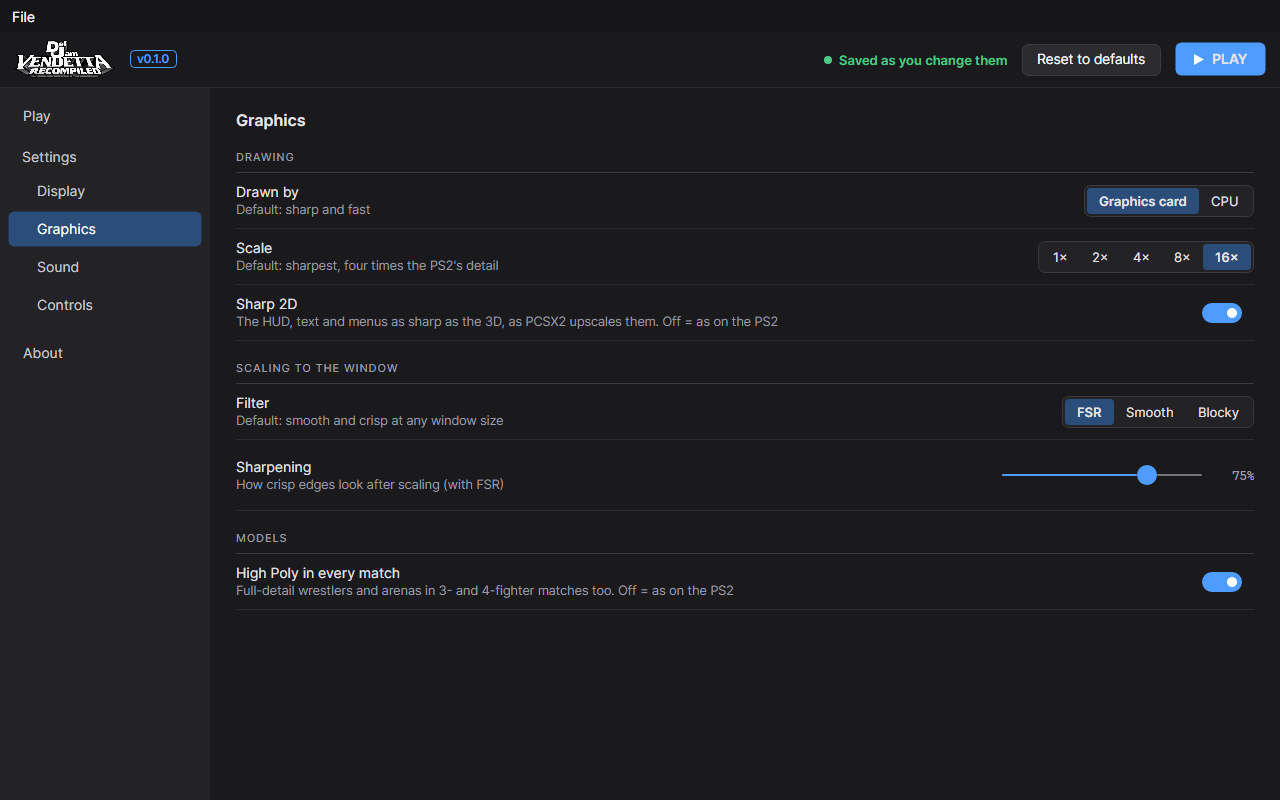
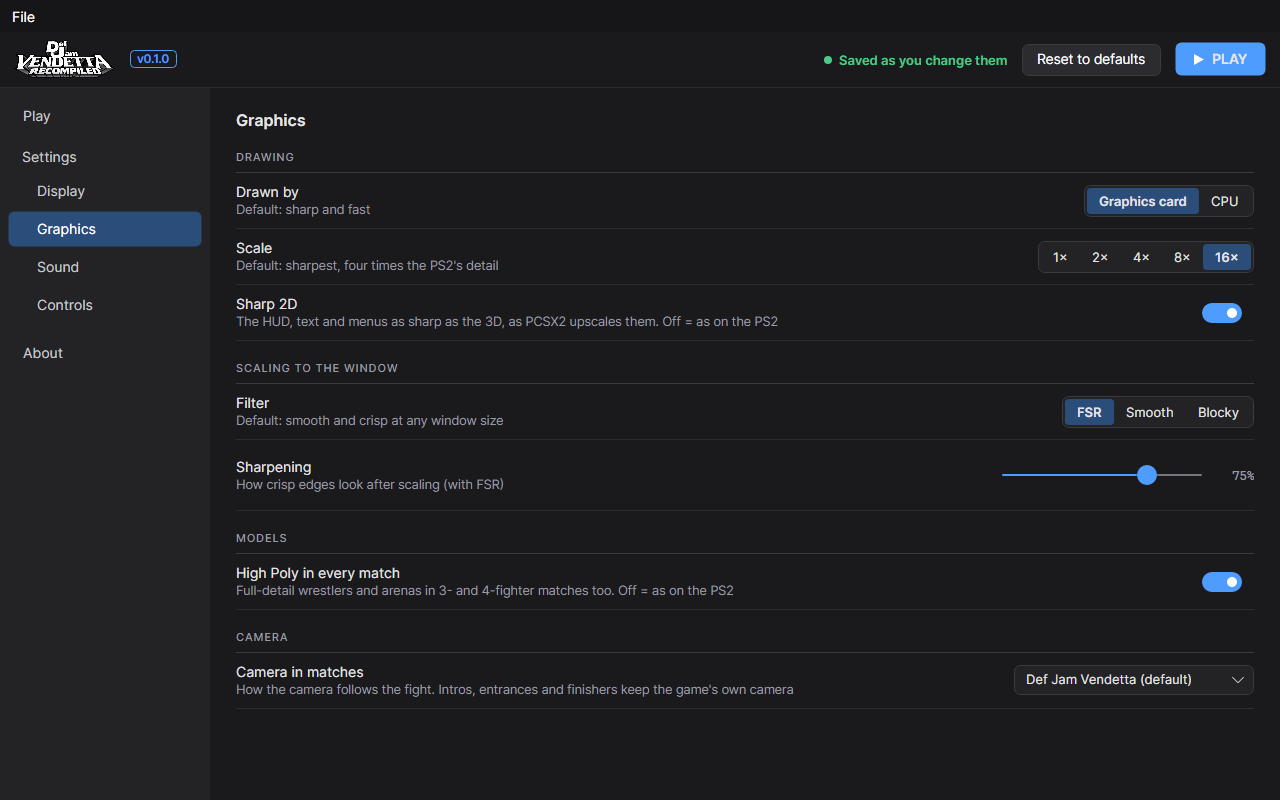
README and release notes: camera styles and Vulkan; 0.1.0 notes final
- README: Camera and Graphics rows in PS2 vs PC, Vulkan in the intro, the
  camera styles under Good to know (Wrestle Kingdom 2's turned controls),
  the camera on the Graphics page (picture redrawn), updating described as
  it works (the new version downloaded, only what changed swapped in),
  VENDETTA_CAMERA and VENDETTA_PRESENT in the switches.
- CHANGELOG: camera styles and Vulkan under New, the draft mark removed.

Changed region(s): [[0.1875, 0.7812, 0.625, 0.875], [0.7812, 0.8438, 0.9375, 0.875]]

diff --git a/README.md b/README.md
@@ -13,7 +13,9 @@ Made by [@jcsix on X](https://x.com/jcsix) · [jcsix694 on GitHub](https://githu
 </div>
 
 The original PlayStation 2 code is translated to C++ with [PS2Recomp](https://github.com/ran-j/PS2Recomp) and compiled on your
-PC, so your CPU runs the game directly. No emulator. **No game files come with it:** you need your own copy of Def Jam
+PC, so your CPU runs the game directly. No emulator. The PS2's graphics chip is redrawn on your graphics card with
+Vulkan through [paraLLEl-GS](https://github.com/Arntzen-Software/parallel-gs), and the picture is shown with Vulkan
+too. **No game files come with it:** you need your own copy of Def Jam
 Vendetta (PlayStation 2, USA, **SLUS-20639**) as an `.iso` or `.chd`, and everything made from it stays on your PC.
 
 <img src="images/game-match.jpg" alt="Briggs against Spider in The Face Club, widescreen at 16x" width="100%">
@@ -28,6 +30,8 @@ Vendetta (PlayStation 2, USA, **SLUS-20639**) as an `.iso` or `.chd`, and everyt
 | **Models in 3- and 4-fighter matches** | Low Poly | High Poly (optional) |
 | **Players** | 4 with a multitap | 4 controllers, plus the keyboard |
 | **Vibration** | DualShock 2 | Xbox-style controllers |
+| **Camera** | Def Jam Vendetta's | Def Jam Vendetta's, WWF No Mercy style or Wrestle Kingdom 2 style |
+| **Graphics** | the PS2's graphics chip | Vulkan on your graphics card |
 | **Display** | TV | window, borderless or fullscreen |
 | **Saves** | memory card | memory card files on your PC |
 
@@ -84,8 +88,9 @@ about 8 GB of free space · the internet once · your own Def Jam Vendetta disc 
 > Windows may say *"Windows protected your PC"* because the program isn't code-signed yet. Click **More info**, then
 > **Run anyway**.
 
-**Updating:** Def Jam Vendetta Recompiled Settings checks for a new version when it opens and offers it on its Play page. An update is a
-small download, then the game is rebuilt in a few minutes. Your settings and saves are kept.
+**Updating:** Def Jam Vendetta Recompiled Settings checks for a new version when it opens and offers it on its Play page. It
+downloads the new version, swaps in only what changed and rebuilds the game in a few minutes. Your settings and saves are
+kept.
 
 ## Def Jam Vendetta Recompiled Settings
 
@@ -99,8 +104,8 @@ small download, then the game is rebuilt in a few minutes. Your settings and sav
 
 - **Display:** window, borderless or fullscreen, which screen, fullscreen resolution and refresh rate, VSync, and
   widescreen, 4:3 or stretched.
-- **Graphics:** graphics card or CPU, scale 1× to 16×, Sharp 2D, FSR, smooth or blocky scaling with sharpening, and
-  High Poly in every match.
+- **Graphics:** graphics card or CPU, scale 1× to 16×, Sharp 2D, FSR, smooth or blocky scaling with sharpening,
+  High Poly in every match, and the camera style.
 - **Sound:** volume and the arena reverb.
 - **Controls:** up to 4 players, each player's controller and vibration, which player the keyboard plays as, and what
   every button does.
@@ -130,6 +135,9 @@ Controls page.
 - **Running slowly?** 16× (the default) needs a fairly strong graphics card: try 8× on the Graphics page.
 - **The very first start** is slow for about a minute while the graphics card prepares its shaders.
 - **Vibration** can also be turned off in the game's own pause menu.
+- **Camera styles:** Def Jam Vendetta's own camera, WWF No Mercy style or Wrestle Kingdom 2 style
+  (the ring seen from a corner, like a diamond). With Wrestle Kingdom 2's view the D-pad and left stick are turned to
+  match it, so up still moves up the screen.
 - **Your settings** are in `files\settings.toml`. Def Jam Vendetta Recompiled Settings writes it, and you can edit it by hand.
 - **Mods** are not supported yet, but are currently being worked on.
 
@@ -173,6 +181,8 @@ The game reads `settings.toml` from its folder. A switch set before `run.bat` wi
 | `VENDETTA_UPSCALE_SPRITES=1/0` · `VENDETTA_HIGHPOLY=1/0` | Sharp 2D (`sharp_2d`) · High Poly in every match (`high_poly`) |
 | `VENDETTA_KEYBOARD=1..4/0` | the keyboard's player (`keyboard`, 0 = nobody) |
 | `VENDETTA_SPU_INTERP=linear` | the sound chip's voices interpolated linearly instead of the PS2's Gaussian |
+| `VENDETTA_CAMERA=vendetta/nomercy/wk2` | the camera style (`camera`) |
+| `VENDETTA_PRESENT=opengl` | the older OpenGL window instead of the Vulkan one |
 
 F1 shows the debug panel. In the repository: `config\` (the recompiler's inputs: the function map from Ghidra, Sony
 library routines bound to the runtime's own, missed function starts), `overrides\` (game-specific runtime code),

diff --git a/CHANGELOG.md b/CHANGELOG.md
@@ -5,7 +5,7 @@ The newest version is at the top.
 
 ---
 
-## 0.1.0: the first release (DRAFT, not released yet)
+## 0.1.0: the first release
 
 Def Jam Vendetta (PlayStation 2, USA, SLUS-20639) as a native Windows program, built on your PC from your own disc.
 No game files come with this download.
@@ -20,6 +20,9 @@ No game files come with this download.
 - **A sharp picture:** drawn on your graphics card at up to 16 times the PS2's detail, with the HUD, text and menus
   as sharp as the 3D (Sharp 2D).
 - **High Poly in every match:** full-detail wrestlers and arenas in 3- and 4-fighter matches too.
+- **Camera styles:** Def Jam Vendetta's own camera, WWF No Mercy style or Wrestle Kingdom 2 style (the ring seen from a
+  corner, with the controls turned to match). Choose it under Graphics.
+- **Vulkan:** the PS2's graphics are redrawn on your graphics card with Vulkan, and the picture is shown with Vulkan too.
 - **Def Jam Vendetta Recompiled Settings:** display, graphics, sound and controls in one place, with PLAY.
 
 ### Good to know
